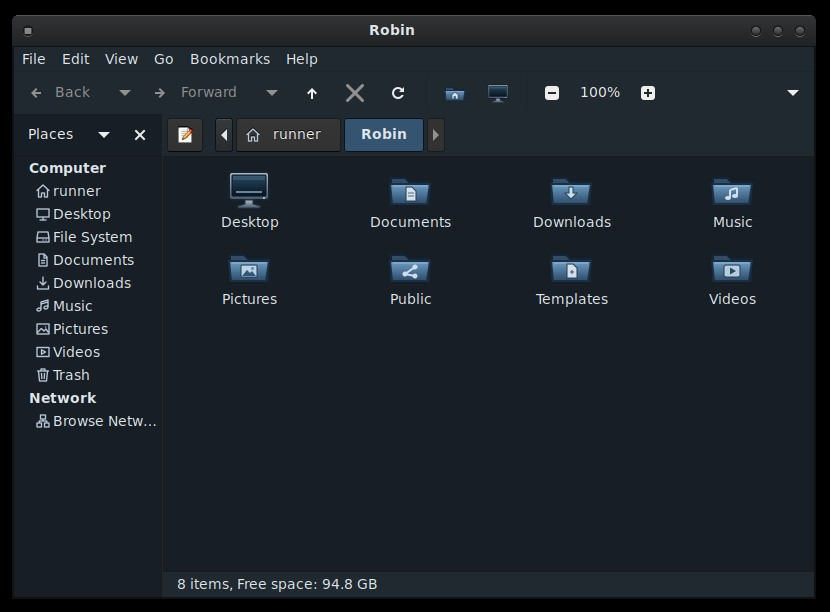
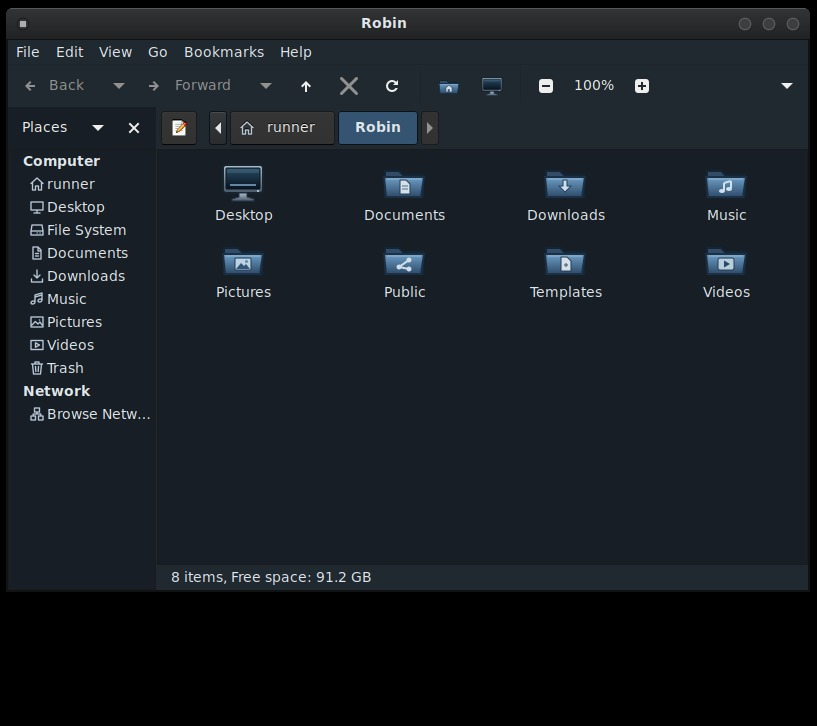
Refresh the README screenshots for 0.5.2 (#5)
Show the current Cinnamon, MATE and Xfce desktops and link to the Cinnamon button states.

diff --git a/README.md b/README.md
@@ -1,10 +1,10 @@
 # Apartment Blue
 
-A dark theme for Cinnamon, MATE and Xfce. It has charcoal title bars, recessed window buttons and blue folder icons.
+A dark theme for Cinnamon, MATE and Xfce with graphite window buttons and blue folder icons.
 
-![Apartment Blue on Cinnamon](apartment-blue/screenshots/cinnamon.jpg)
+![Apartment Blue 0.5.2 on Cinnamon](apartment-blue/screenshots/cinnamon.jpg)
 
-[Cinnamon menu, calendar and notifications](apartment-blue/screenshots/cinnamon-shell.jpg) · [Caja on MATE](apartment-blue/screenshots/mate.jpg) · [Thunar on Xfce](apartment-blue/screenshots/xfce.jpg)
+[Cinnamon menu, calendar and notifications](apartment-blue/screenshots/cinnamon-shell.jpg) · [Caja on MATE](apartment-blue/screenshots/mate.jpg) · [Thunar on Xfce](apartment-blue/screenshots/xfce.jpg) · [Window button states at 1×](apartment-blue/screenshots/1x-muffin.png)
 
 ## Install
 
